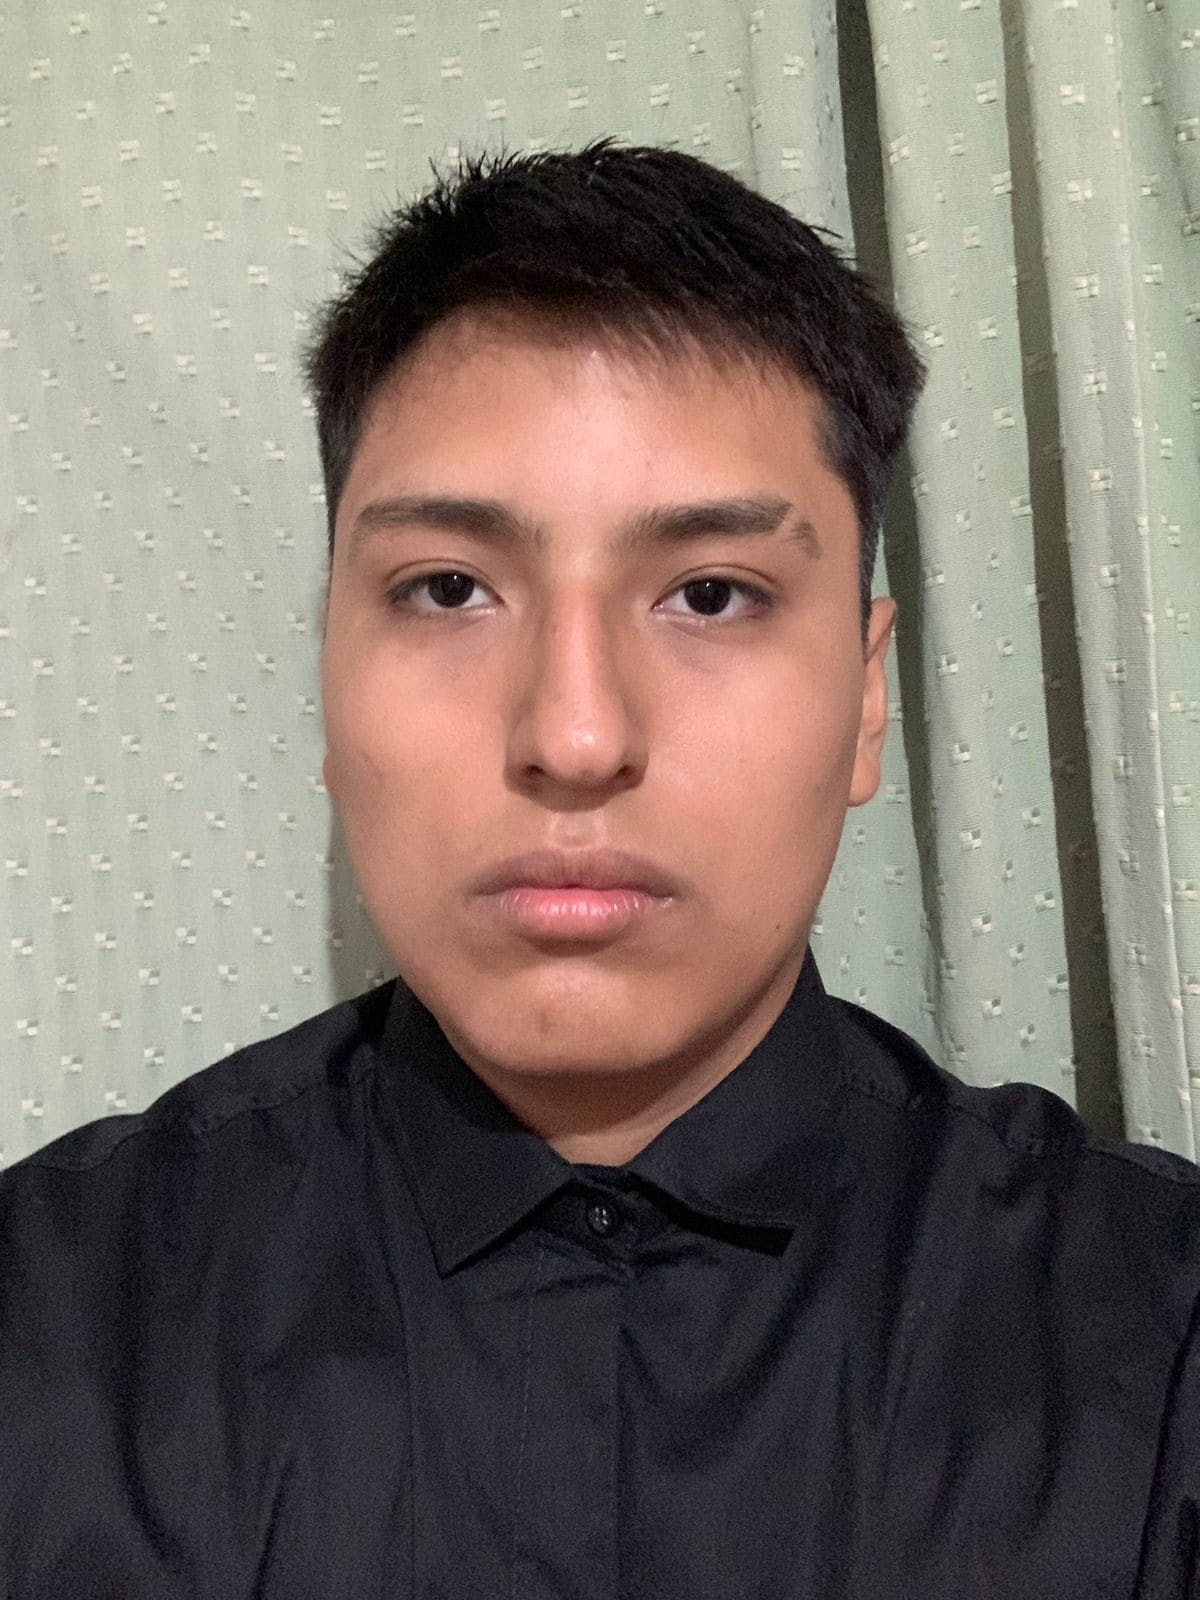
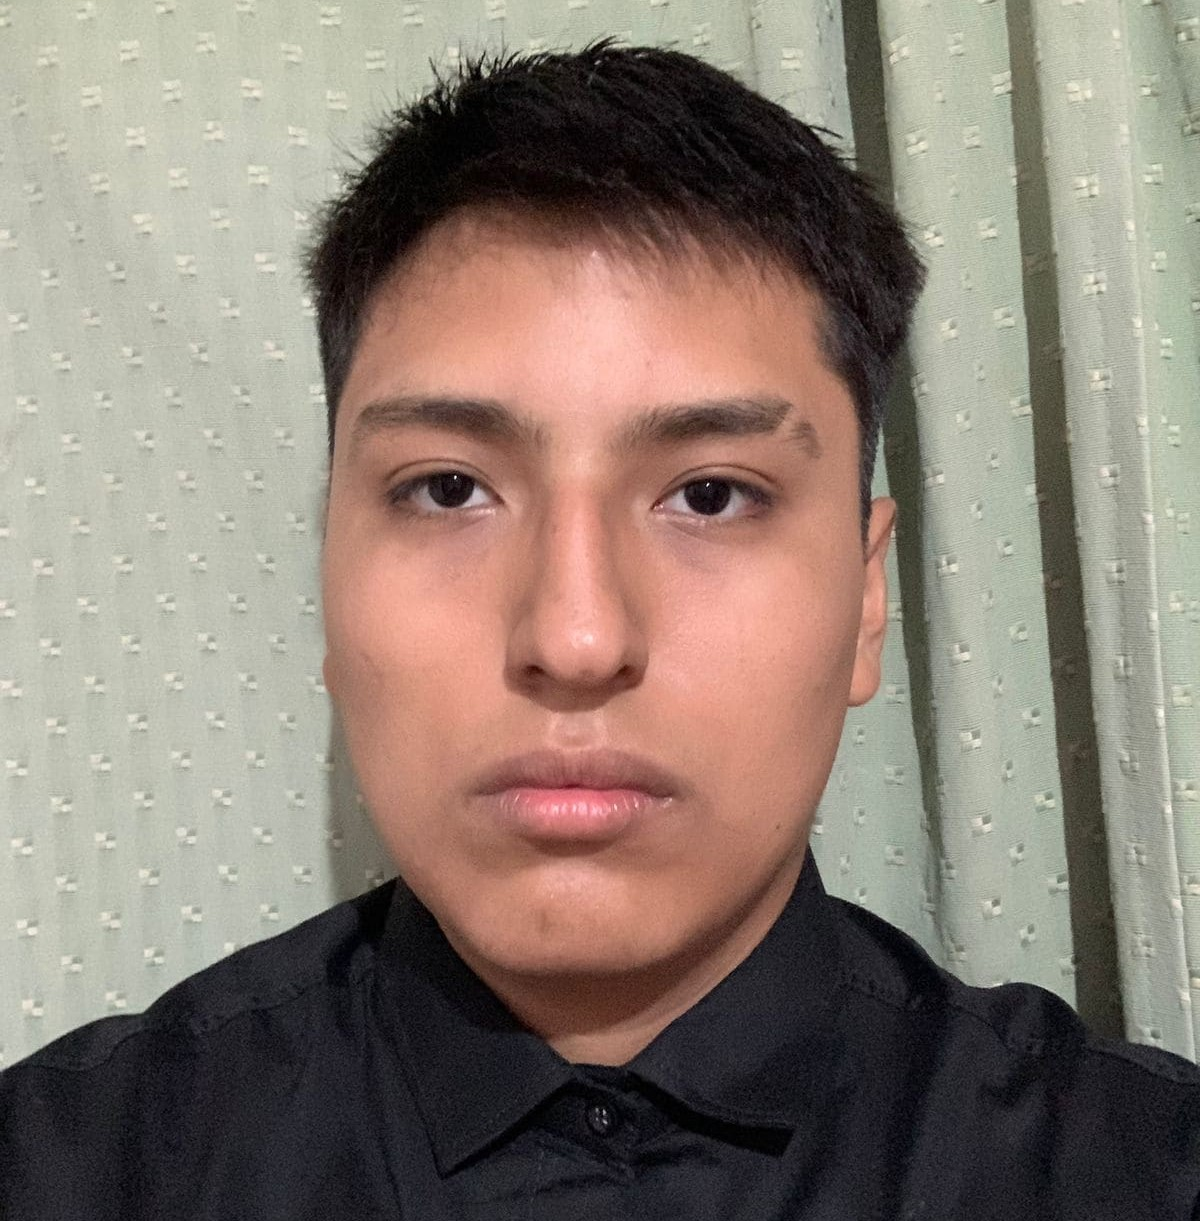
responsive de la img de inicio + width

diff --git a/index.html b/index.html
@@ -41,7 +41,7 @@
         <section class="inicio-section">
             <div class="inicio-text">
                 <h1>¡Hola👋🏻! Soy Renato</h1>
-                <p>Con 2 años de experiencia como desarrollador frontend, apasionado por crear soluciones innovadoras y funcionales. Desde Panamá 🇵🇦, llevando mi talento al mundo.</p>
+                <p>Desarrollador frontend, apasionado por la creación de soluciones innovadoras y funcionales que impulsen la experiencia digital. Desde Argentina 🇦🇷, llevando mi talento al mundo.</p>
                 <div class="text-redes">
                     <a href="">linkedin</a>
                     <a href="">github</a>

diff --git a/css/style.css b/css/style.css
@@ -83,7 +83,8 @@ fieldset {
 }
 
 .main-principal {
-  max-width: 1000px;
+  max-width: 1200px;
+  padding: 8rem 2rem 8rem 2rem;
   margin: 0 auto;
 }
 .main-principal .inicio-section {
@@ -106,13 +107,13 @@ fieldset {
   display: flex;
   justify-content: center;
   align-items: center;
-  height: 400px;
-  width: 400px;
+  width: 100%;
+  max-width: 400px;
   margin: 0 auto;
 }
 .main-principal .inicio-section .img-inicio img {
-  width: 100%;
-  height: 100%;
+  max-width: 100%;
+  height: auto;
   object-fit: cover;
   border-radius: 50%;
 }

diff --git a/scss/layout/_main.scss b/scss/layout/_main.scss
@@ -2,7 +2,8 @@
 @use "../utilidades/mixin";
 
 .main-principal {
-    max-width: 1000px;
+    max-width: 1200px;
+    padding: 8rem 2rem 8rem 2rem;
     margin: 0 auto;
     .inicio-section {
         display: grid;
@@ -26,8 +27,8 @@
             display: flex;
             justify-content: center;
             align-items: center;
-            height: 400px;
-            width: 400px;
+            width: 100%;
+            max-width: 400px;
             margin: 0 auto;
             img {
                 @include mixin.img-responsiva;

diff --git a/scss/utilidades/_mixin.scss b/scss/utilidades/_mixin.scss
@@ -1,7 +1,7 @@
 
 @mixin img-responsiva {
-    width: 100%;
-    height: 100%;
+    max-width: 100%;
+    height: auto;
     object-fit: cover;
 }
 
